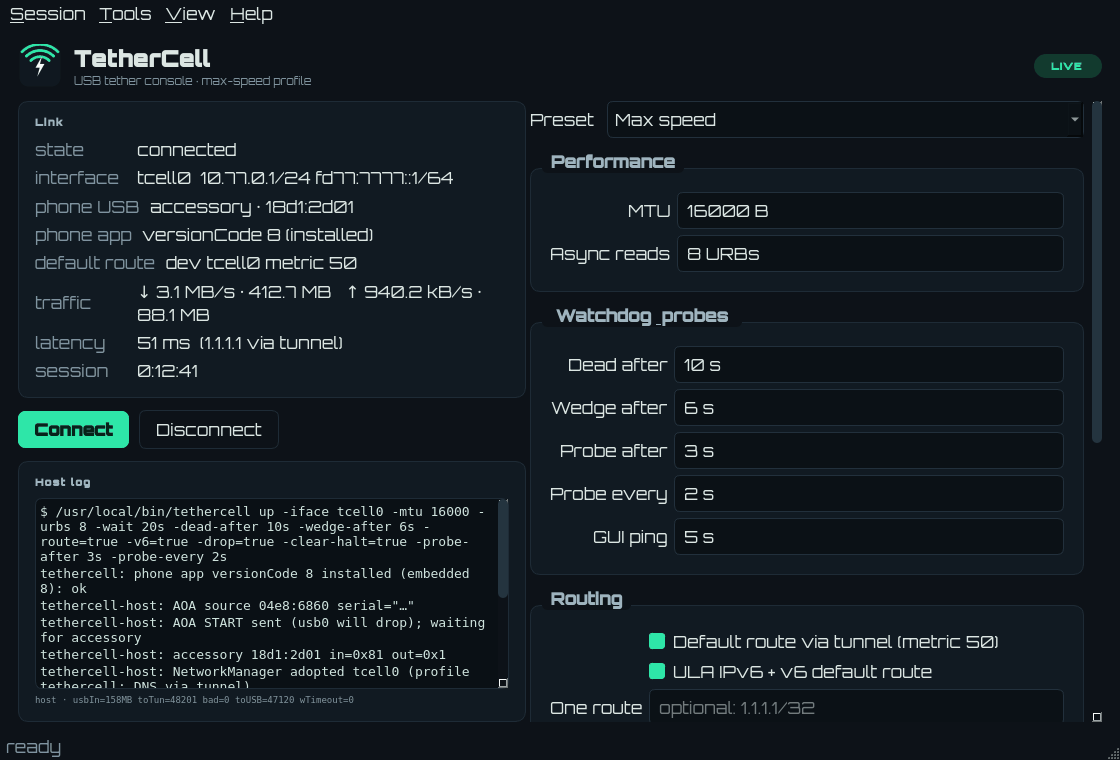
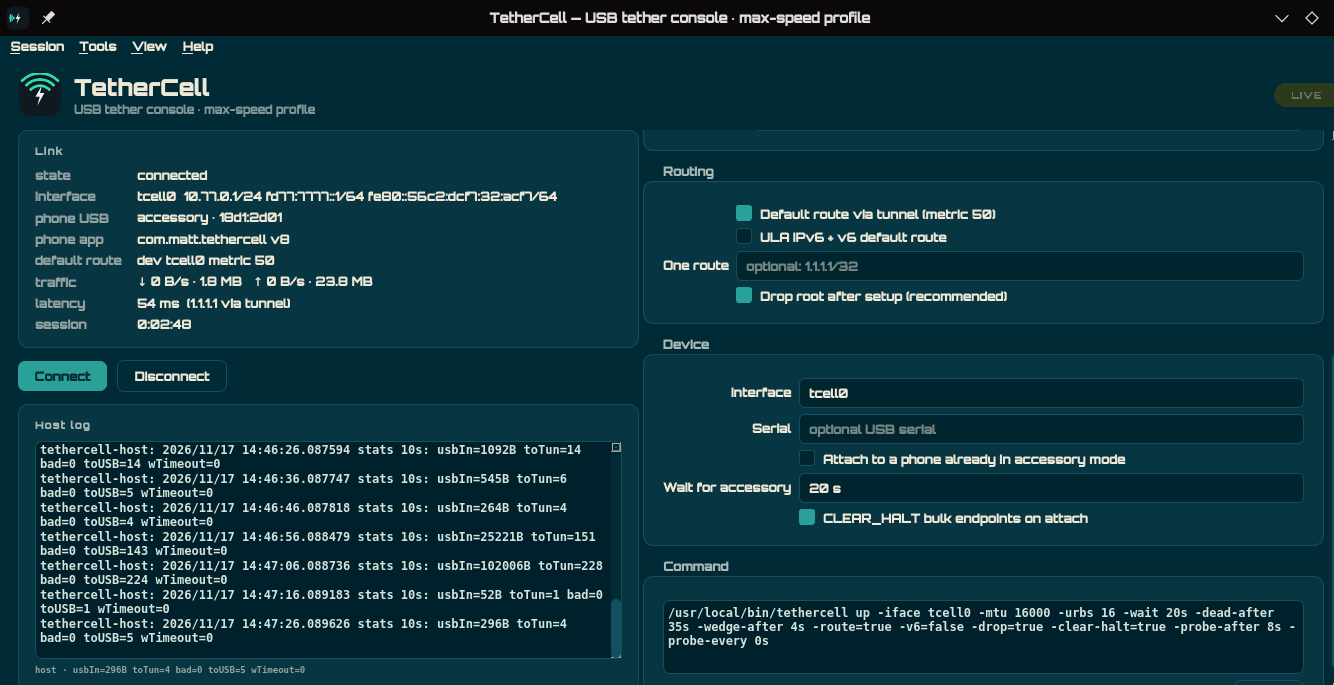
Screenshots: use real live captures of six themes
Matt's own captures on a live tcell0 link replace the rendered mockup:
Midnight, Amber CRT, Cyberpunk, Daylight, Nord and Matrix, each
quantised (~50 KB) in docs/screenshots/themes/, plus a 2x3 labelled
gallery and the Nord shot as the README hero.

diff --git a/README.md b/README.md
@@ -22,9 +22,12 @@ Linux x86-64 for the desktop; Android 10+ for the phone; no root on either side.
 |---|---|
 | ![TetherCell GUI](docs/screenshots/gui.png) | ![TetherCell phone app](docs/screenshots/phone.png) |
 
-Eight palettes under **View**:
+Six of the eight palettes under **View** — real captures on a live `tcell0` link:
 
 ![Themes](docs/screenshots/themes.png)
+
+Individual shots: [`docs/screenshots/themes/`](docs/screenshots/themes) (Midnight, Amber CRT,
+Cyberpunk, Daylight, Nord, Matrix). Missing: Solarized and Rosé.
 
 
 | dir | what |
